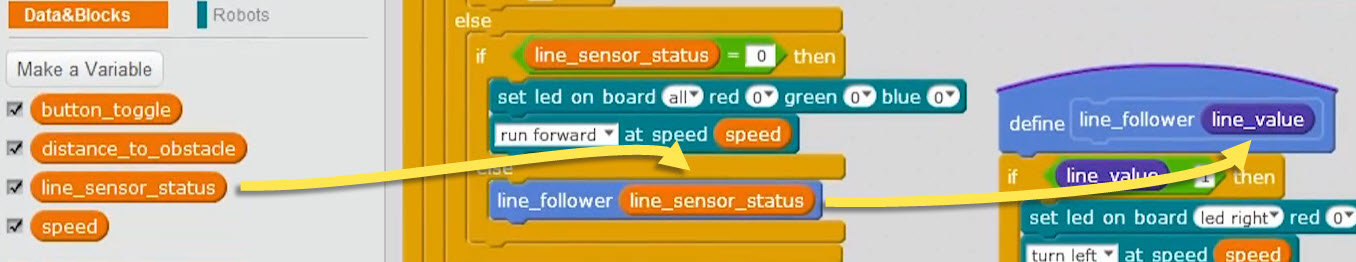
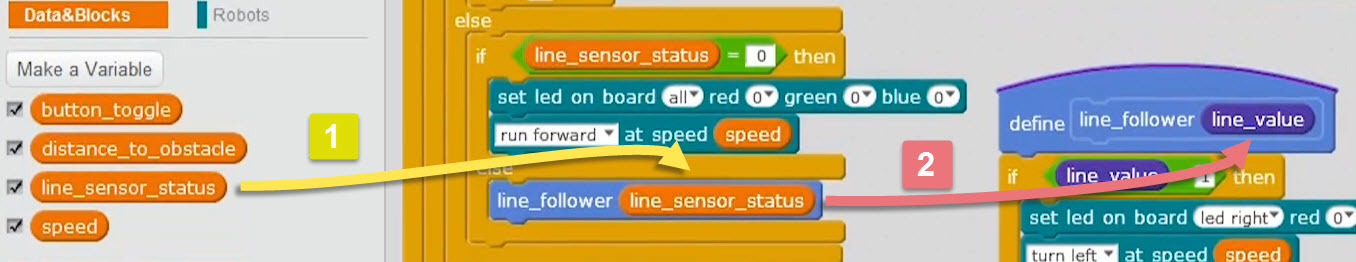
Updates section-5-chapter-32-custom-blocks-functions.md
Auto commit by GitBook Editor

Changed region(s): [[0.5885, 0.5191, 0.9292, 0.7939], [0.2168, 0.4275, 0.2788, 0.6412]]

diff --git a/section-5-chapter-32-custom-blocks-functions.md b/section-5-chapter-32-custom-blocks-functions.md
@@ -74,17 +74,21 @@ Last step, we must call this new function, from within the program. In other wor
 
 \[Image 5.30.9: Calling the new "line\_follower" function\]
 
-But the function call is not ready yet. We need to make sure that the program will pass the status of the line sensor, stored in variable "line\_sensor\_status", to the function ![](/assets/Img.5.30.10.jpg)
+But the function call is not ready yet. We need to make sure that the program will pass the status of the line sensor, stored in variable "line\_sensor\_status", as an attribute to the function. To achieve that, we need to take the "line\_sensor\_status" variable block and drag and drop it in the "line\_follower" block \(1\) as an attribute: ![](/assets/Img.5.30.10.jpg)\[Image 5.30.10: passing and attribute to the function\]
 
-\[Image 5.30.10: \]
+Now, when we run the program and the execution reaches the "line\_follower" block, the program will call function "line\_follower" passing it the value of variable "line\_sensor\_status" \(2\). What will happen is that the value of "line\_sensor\_status" will be copied to local variable "line\_value", in order to be used by the function according to its needs. 
 
-Let's do one more and then I will leave the rest up to you to change as you see fit. Just experiment with this. The other part of the code that I would like to turn into a custom block, is the part where we implement the line following functionality. That code is right here, this bit. I'm going to create a new block, I’m going to call that Line Follower. I would like this to have a input now. I would like this to have the input and that input is the state of the sensor. The state of the sensor will be input to the Line Follower block. Let's call that Line Value. This allows us to create blocks that have parameters and then those parameters can be used inside the block just like any other variable.
+"line\_sensor\_status" belongs to the main program when "line\_value" is used locally by function "line\_follower".
 
-I'm going to say okay, and here is the header for the new block. Then I will populate that block with the code inside here, inside this part of the if/else statement. This is where we have a line following code. We're going to drag that over and put it here. Of course, I need to be able to call the Line Follower block. To do that, I'm going to drag the Line Follower block and put it where this bit of code used to be. Remember that we need a parameter here and the parameter that I want to pass is the Line Value, so the value that the line sensor has returned. I need to grab that line sensor status and put it in here.
+We can check the program for more things that can be turned into functions, simplifying the main program, but instead we will "Upload to Arduino" and check if the program executes like before, making sure we didn't mess our program while creating functions.
 
-Because now inside our block we have replaced the original line sensor status with a local variable line value, which eventually contains the same value but it's got a different name. One, Line Value is the internal name that is used inside the block, while line sensor status belongs to the outside program to the whole program. Just going to move that Line Value variable and replace any reference of the original line sensor status. Just like that. Okay, so this is what our new program looks like. If you look around the original program, there are still things that you can do to simplify it and convert some of its components into external blocks, custom blocks.
+Functions help organizing programs better by breaking them down in smaller parts, instead of building one monolithic program that is both difficult to read and understand what it does, and to edit.
 
-I think it's good enough for now. I’d like to upload that and make sure that my robot still works. Plug it into the USB. Actually, I don't need to turn it upside down because I've got the button functionality. Connect to comp six. Right click on the input header and upload to Arduino, and upload to Arduino, all done. Let's see, does it still work? I'm going to press the button, it looks like it is. All right. Let's go and try it out then on the track and hopefully everything would go well. The input now contains the last version of the program. It's supposed to behave in the exact same way as the previous version, it's just that now it's more organized using custom blocks than just having a one monolithic piece of code.
+The mBot has preserved all the functionality we aimed for: it can follow a line, it can detect an obstacle and make a U-turn. Only now our program is better organized, too. The instructions are more readable.
 
-Let's start it and see how it behaves. Yes, it looks like it behaves exactly like it did before. Great, okay, that's it. At this point, we've got the mBot behaving in the way that we planned for. It can follow a line, it can turn around when it reaches the end of the line and detects the obstacle in front of it. We were also able to improve the construction of our program by using custom blocks. Let's wrap it up in the next lecture and discuss things that your students can actually do going forward.
+Let's wrap it up in the next lecture and discuss things that your students can actually do, going forward.
+
+### Exercise
+
+
 
